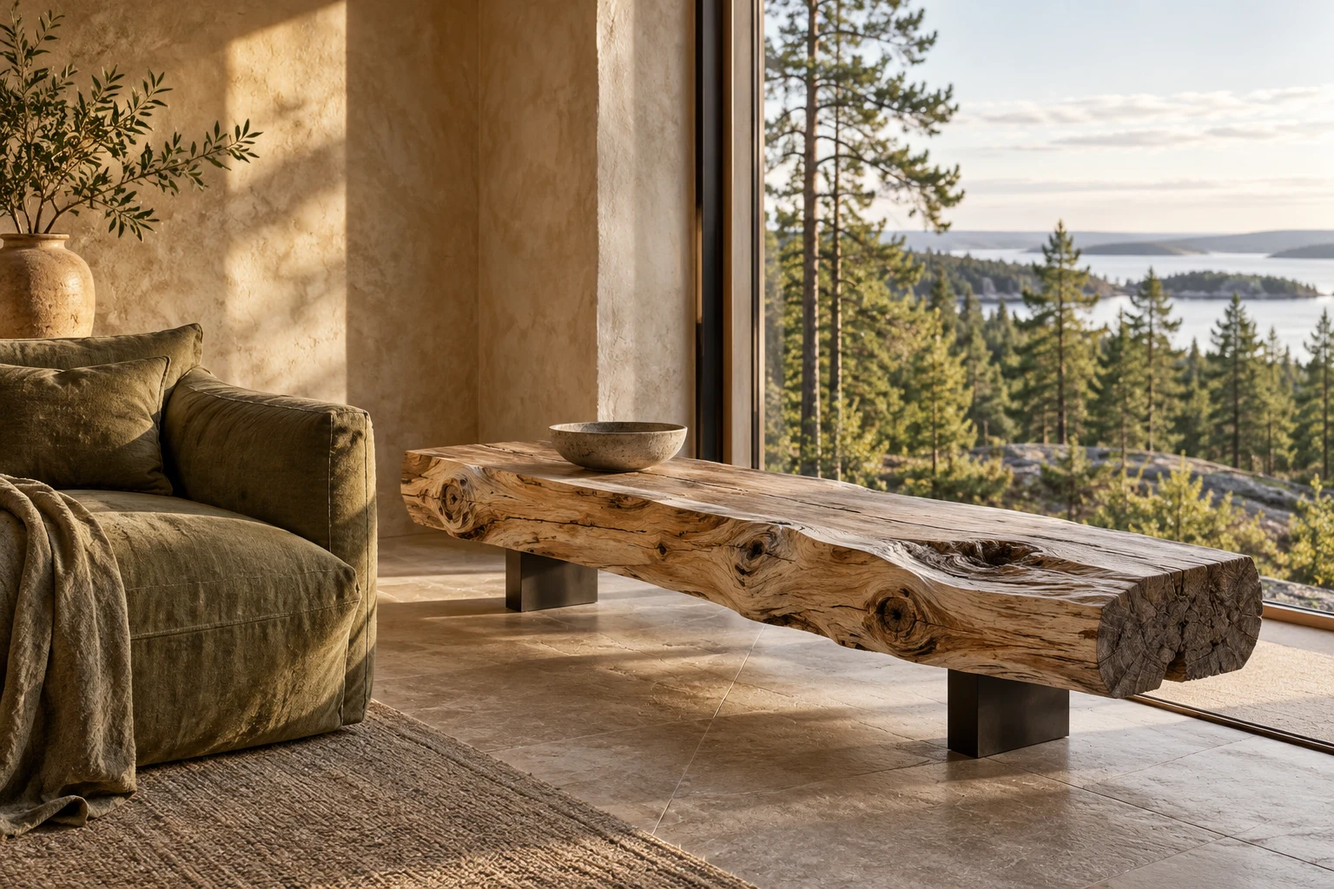
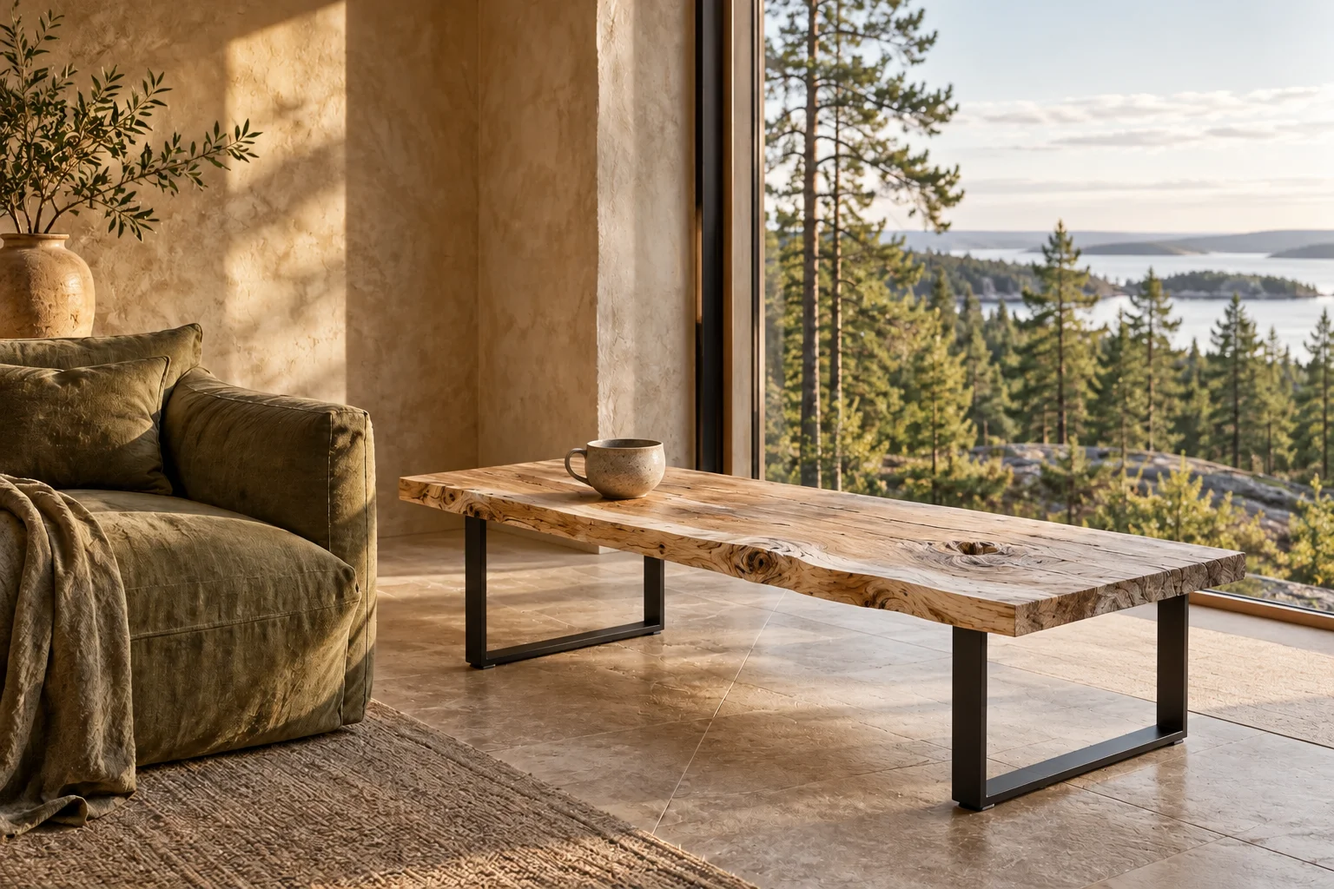
Simplify storefront to one board overview and separate editor; revise coffee-table image

diff --git a/components/storefront.tsx b/components/storefront.tsx
@@ -4,7 +4,7 @@ import {AnimatePresence,motion,useReducedMotion} from 'motion/react';
 import {MotionPhoto} from '@/components/motion-photo';
 import {photoIndex} from '@/lib/gallery-gestures';
 import { ShoppingBag, Search, Menu, X, Plus, Minus, Trash2, Check, TreePine, Ruler, Truck, Leaf, ShieldCheck, SlidersHorizontal, Heart, Package, RotateCcw, CheckCircle2, CreditCard, MapPin, Info, Loader2 } from 'lucide-react';
-import { categoryPhotoSets,photoGroup,productPhotoSet,editorialImages,projectExamples,type GalleryPhoto } from '@/lib/gallery-photos';
+import { productPhotoSet,editorialImages,projectExamples,type GalleryPhoto } from '@/lib/gallery-photos';
 import { createBoardMesh } from '@/lib/board-model';
 import { InteractiveSurface } from '@/components/interactive-surface';
 import { boardLengthLimits, boardWidthLimits, configuredWidth, extrasPrice, isShelf, configurationError, categories, demoProducts, defaultProcessing, initialConfig, priceDetails, money, details, shipping, typeNames, type Product, type Processing, type Configuration, type CartItem } from '@/lib/catalog';
@@ -28,8 +28,8 @@ export function Brand(){return <a className="brand" href="/" aria-label="KELO WO
 export function Header({activePath}:{activePath?:string}={}){
  const {cart}=useStore();const [path,setPath]=useState(activePath||'');
  useEffect(()=>setPath(activePath||window.location.pathname),[activePath]);
- const [menu,setMenu]=useState(false),[search,setSearch]=useState(false);const count=cart.reduce((s,i)=>s+i.quantity,0);
- return <><header className="header"><div className="container header-inner"><Brand/><nav className="desktop-nav" aria-label="Основная навигация"><a href="/catalog" aria-current={path==='/catalog'||path.startsWith('/product/')?'page':undefined}>Каталог</a><a href="/constructor" aria-current={path==='/constructor'?'page':undefined}>Конструктор</a><a href="/#about">О Кело</a><a href="/#delivery">Доставка</a></nav><div className="header-actions"><button className="icon-btn search-btn" onClick={()=>setSearch(true)} aria-label="Поиск по каталогу"><Search size={17}/></button><a className="cart-link" href="/cart" aria-label={`Корзина, ${count} товаров`}><ShoppingBag size={25} strokeWidth={1.8} aria-hidden="true"/>{count>0&&<span className="cart-count" aria-hidden="true">{count}</span>}</a><button className="icon-btn mobile-menu" onClick={()=>setMenu(!menu)} aria-label={menu?'Закрыть меню':'Открыть меню'} aria-expanded={menu}>{menu?<X size={20}/>:<Menu size={20}/>}</button></div></div>{menu&&<nav className="mobile-nav" aria-label="Мобильная навигация">{[['/catalog','Каталог изделий'],['/constructor','Конструктор в размер'],['/#about','О древесине Кело'],['/#delivery','Доставка и оплата']].map(([url,label])=><a href={url} key={url} onClick={()=>setMenu(false)}>{label}</a>)}</nav>}</header><div className="product-nav-wrap"><nav className="product-nav container" aria-label="Навигация по коллекции"><a className="product-nav-name" href="/">Сосна Кело.</a><div className="product-nav-links"><a href="/#highlights">Особенности</a><a href="/#collection">Коллекция</a><a href="/#configure">В ваш размер</a></div><a className="btn small" href="/catalog">Выбрать слэб</a></nav></div>{search&&<Modal title="Найдите своё дерево" onClose={()=>setSearch(false)}><form action="/catalog" className="search-form"><label htmlFor="search">Название или артикул</label><div className="input-action"><input id="search" name="q" autoFocus placeholder="Например: слэб или KL-001"/><button className="btn" type="submit">Найти</button></div><p className="muted">Слэбы, полки, заготовки и природные акценты для дома.</p></form></Modal>}</>;
+ const [menu,setMenu]=useState(false);const count=cart.reduce((s,i)=>s+i.quantity,0);
+ return <><header className="header"><div className="container header-inner"><Brand/><nav className="desktop-nav" aria-label="Основная навигация"><a href="/#board" aria-current={path==='/catalog'?'page':undefined}>Доска Кело</a><a href="/constructor" aria-current={path==='/constructor'?'page':undefined}>Редактор</a><a href="/#about">О Кело</a><a href="/#delivery">Доставка</a></nav><div className="header-actions"><a className="cart-link" href="/cart" aria-label={`Корзина, ${count} товаров`}><ShoppingBag size={25} strokeWidth={1.8} aria-hidden="true"/>{count>0&&<span className="cart-count" aria-hidden="true">{count}</span>}</a><button className="icon-btn mobile-menu" onClick={()=>setMenu(!menu)} aria-label={menu?'Закрыть меню':'Открыть меню'} aria-expanded={menu}>{menu?<X size={20}/>:<Menu size={20}/>}</button></div></div>{menu&&<nav className="mobile-nav" aria-label="Мобильная навигация">{[['/#board','Доска Кело'],['/constructor','Редактор доски'],['/#about','О древесине Кело'],['/#delivery','Доставка и оплата']].map(([url,label])=><a href={url} key={url} onClick={()=>setMenu(false)}>{label}</a>)}</nav>}</header><div className="product-nav-wrap"><nav className="product-nav container" aria-label="Навигация по доске Кело"><a className="product-nav-name" href="/">Сосна Кело.</a><div className="product-nav-links"><a href="/#highlights">Особенности</a><a href="/#board">О доске</a><a href="/constructor">В ваш размер</a></div><a className="btn small" href="/constructor">Заказать</a></nav></div></>;
 }
 export function Modal({title,onClose,children,wide=false}:{title:string;onClose:()=>void;children:ReactNode;wide?:boolean}){
  const dialog=useRef<HTMLDialogElement>(null);const [closing,setClosing]=useState(false);const titleId=useId(),reduced=useReducedMotion();
@@ -56,22 +56,21 @@ function MaterialGallery(){
  return <section className="gallery-highlights section" id="highlights"><div className="container"><div className="gallery-section-heading"><p className="eyebrow">Ближе к природе</p><h2>Характер. В деталях.</h2></div><div className="gallery-frame" aria-live="polite" aria-atomic="true"><AnimatePresence initial={false}><motion.img initial={{opacity:0,x:reduced?0:24}} animate={{opacity:1,x:0}} exit={{opacity:0,x:reduced?0:-24}} transition={{duration:.35}} className="gallery-slide-image" key={selected} src={'/images/'+slides[selected].image+'.webp'} alt={slides[selected].alt} loading="lazy"/></AnimatePresence><motion.div key={selected+'-copy'} initial={{opacity:0,y:reduced?0:12}} animate={{opacity:1,y:0}} transition={{duration:.3,delay:.08}} className="gallery-slide-copy"><h3>{slides[selected].title}</h3><p>{slides[selected].text}</p></motion.div></div><div className="gallery-pagination"><div className="gallery-selector" role="group" aria-label="Детали древесины">{slides.map((s,i)=><button type="button" key={s.label} className={selected===i?'active':''} aria-pressed={selected===i} onClick={()=>setSelected(i)}>{selected===i&&<motion.span className="gallery-tab-indicator" layoutId={tabsId} transition={{type:'spring',stiffness:440,damping:35}}/>}<span>{s.label}</span></button>)}</div><span className="gallery-slide-count" aria-hidden="true">0{selected+1} / 03</span></div><p className="fine-print gallery-image-note">Демонстрационные изображения. Рисунок каждой реальной доски уникален.</p></div></section>;
 }
 export function HomePage(){
- const {products,error,reload}=useStore();const rate=Math.min(...products.filter(p=>p.active&&p.category==='slabs').map(p=>p.rate));
- return <main id="main" className="gallery-home"><section className="gallery-hero"><div className="container"><p className="gallery-product-label">Слэбы Кело.</p><div className="gallery-hero-stage"><img className="gallery-hero-image" src={editorialImages.hero} alt="Слэб карельской сосны Кело: натуральный рисунок, сучки и живой край" fetchPriority="high" width="1536" height="1024"/></div><div className="gallery-hero-copy"><h1>Натуральное дерево<br/><span>с характером.</span></h1><p>Уникальные слэбы карельской сосны Кело.<br/>Природная красота. В вашем размере.</p><div className="gallery-purchase"><span className="gallery-price">От {money(Number.isFinite(rate)?rate:2400)} / пог. м <small>Демо-цена</small></span><a className="btn" href="/catalog">Выбрать слэб</a><a className="gallery-secondary-link" href="/catalog?category=shelves">Готовые изделия</a></div></div></div></section>
+ const {products}=useStore();const rate=Math.min(...products.filter(p=>p.active&&p.category==='slabs').map(p=>p.rate));
+ return <main id="main" className="gallery-home"><section className="gallery-hero"><div className="container"><p className="gallery-product-label">Слэбы Кело.</p><div className="gallery-hero-stage"><img className="gallery-hero-image" src={editorialImages.hero} alt="Слэб карельской сосны Кело: натуральный рисунок, сучки и живой край" fetchPriority="high" width="1536" height="1024"/></div><div className="gallery-hero-copy"><h1>Натуральное дерево<br/><span>с характером.</span></h1><p>Уникальные слэбы карельской сосны Кело.<br/>Природная красота. В вашем размере.</p><div className="gallery-purchase"><span className="gallery-price">От {money(Number.isFinite(rate)?rate:2400)} / пог. м <small>Демо-цена</small></span><a className="btn" href="/constructor">Заказать</a></div></div></div></section>
  <MaterialGallery/>
- <section className="section gallery-collection" id="collection"><div className="container"><SectionTitle eyebrow="Коллекция Кело" title={<>Ни одной одинаковой.<br/>Одна — ваша.</>} href="/catalog" link="Весь каталог"/><DemoNote short/>{error&&<div className="inline-error">{error}<button onClick={()=>void reload()}>Обновить</button></div>}<div className="product-grid">{products.filter(p=>p.active).slice(0,4).map(p=><ProductCard p={p} key={p.id}/>)}</div></div></section>
- <section className="section container gallery-configure" id="configure"><SectionTitle eyebrow="Конструктор изделия" title={<>Ваш замысел.<br/>Точный размер.</>}><p>Доски до 150 см и готовые изделия.<br/>Стоимость пересчитывается сразу.</p></SectionTitle><Configurator compact/></section>
+ <BoardOrderBlock/>
  <section className="section gallery-material" id="about"><div className="container"><div className="gallery-material-heading"><p className="eyebrow">Карельская сухостойная сосна</p><h2>У дерева есть характер.<br/><span>Мы его сохраняем.</span></h2><p>Кело — северная сосна, высохшая естественным образом. Её фактура, сучки и трещины становятся частью вашего интерьера. Мы бережно готовим материал к новой истории.</p></div><div className="gallery-material-grid"><article><img src={editorialImages.materialEdge} alt="Естественный рисунок древесных волокон и сучков" loading="lazy"/><h3>Живой край.</h3><p>Природный силуэт вместо одинаковых линий.</p></article><article><img src={editorialImages.thickness} alt="Заготовки из массива сосны Кело" loading="lazy"/><h3>30 или 40 мм.</h3><p>Две толщины для разных идей и задач.</p></article><article><img src={editorialImages.long} alt="Длинная цельная доска с естественным краем" loading="lazy"/><h3>До 6 метров.</h3><p>Исходные доски на складе. Для заказа выберите длину до 150 см.</p></article></div><div className="gallery-karelia"><img src="/images/forest.webp" alt="Сосновый лес Карелии на скалистом берегу озера — атмосферная иллюстрация" loading="lazy"/><div><p className="eyebrow">Родом с севера</p><h3>Спокойствие леса.<br/>Тепло настоящего дерева.</h3><p>Карелия — наше вдохновение. Натуральная древесина — материал, с которым хочется жить.</p></div></div></div></section>
- <section className="section container gallery-comparison"><div className="gallery-comparison-panel"><SectionTitle eyebrow="Для вашей идеи" title={<>Одно дерево.<br/>Разные возможности.</>}/><div className="gallery-comparison-grid">{[{id:'slabs',name:'Слэбы',image:'quiet-hero',copy:'Начало вашего проекта. Выберите природный рисунок и задайте размеры.',features:['Естественный живой край','Заказ доски от 30 до 150 см','Ширина до 400 мм','Обработка по вашему выбору']},{id:'shelves',name:'Навесные полки',image:'quiet-shelf',copy:'Натуральный акцент, который объединяет пространство и любимые вещи.',features:['Массив карельской сосны','Шлифовка и прямой спил','2 или 3 отверстия по запросу']},{id:'tops',name:'Заготовки',image:'quiet-blanks',copy:'Основа для столешницы, подоконника или вашей собственной работы с деревом.',features:['Толщина 30 или 40 мм','Доска с собственным артикулом','Размер под ваш замысел']}].map(c=><article className="gallery-comparison-card" key={c.id}><PhotoGallery photos={categoryPhotoSets[photoGroup(c.id)]} label={c.name}/><div className="comparison-card-copy"><h3>{c.name}</h3><p>{c.copy}</p><a className="gallery-comparison-link" href={'/catalog?category='+c.id}>Выбрать {c.name.toLowerCase()}</a><ul>{c.features.map(f=><li key={f}>{f}</li>)}</ul></div></article>)}</div><a className="text-link" href="/catalog">Все шесть категорий</a></div></section>
  <section className="section container project-examples" id="ideas"><SectionTitle eyebrow="Идеи для вашего дома" title={<>Что можно создать<br/>из Кело.</>}/><div className="project-examples-grid">{projectExamples.map(project=><article className="project-example" key={project.title}><img src={project.image} alt={project.title+' из натуральной древесины — визуализация'} loading="lazy" width="1536" height="1024"/><div><h3>{project.title}</h3><p>{project.description}</p><a className="project-example-link" href={project.href}>{project.action}</a></div></article>)}</div><p className="fine-print">Примеры для вдохновения. Мы предлагаем древесину и заготовки; опоры и крепёж подбираются отдельно.</p></section>
- <section className="steps-section section container"><SectionTitle eyebrow="От выбора до дома" title="Всё начинается с доски."/><div className="steps-grid">{[['01','Выберите фактуру','Найдите свою доску в коллекции.'],['02','Задайте параметры','Настройте длину и обработку. Цена появится сразу.'],['03','Оформите заказ','Укажите контакты и выберите доставку.'],['04','Создайте своё','Мы подготовим и бережно упакуем изделие.']].map(([num,title,text])=><div className="step" key={num}><span>{num}</span><h3>{title}</h3><p>{text}</p></div>)}</div></section>
+ <section className="steps-section section container"><SectionTitle eyebrow="От выбора до дома" title="Всё начинается с доски."/><div className="steps-grid">{[['01','Познакомьтесь с Кело','Рассмотрите фактуру и живой край доски.'],['02','Задайте параметры','Настройте длину и обработку. Цена появится сразу.'],['03','Оформите заказ','Укажите контакты и выберите доставку.'],['04','Создайте своё','Мы подготовим и бережно упакуем изделие.']].map(([num,title,text])=><div className="step" key={num}><span>{num}</span><h3>{title}</h3><p>{text}</p></div>)}</div></section>
  <section className="delivery-section section" id="delivery"><div className="container delivery-grid"><div><p className="eyebrow">Доставка и оплата</p><h2>Продумано.<br/>До вашего порога.</h2><p className="section-description">Размер и обработка — в конструкторе.<br/>Доставка — с учётом вашего изделия.</p><a className="text-link" href="/constructor">Рассчитать изделие</a></div><div className="faq-list">{[['Доставка по России','Способ и сроки согласуем перед отправкой. Для изделий до 250 см в оформлении показан пример расчёта. Яндекс Доставка пока не подключена.'],['Длинные доски','Для изделий длиннее 250 см доставку рассчитаем индивидуально. До согласования она не включается в итоговую сумму.'],['Оплата заказа','ЮKassa пока не подключена. Оформление и онлайн-оплата работают в демонстрационном режиме: деньги не списываются, данные карты не запрашиваются.'],['Самовывоз','Без стоимости доставки. Адрес склада и сроки подготовки уточняются при согласовании заказа.']].map(([title,text],i)=><details key={title} open={i===0}><summary>{title}<Plus size={19}/></summary><p>{text}</p></details>)}</div></div></section>
- <section className="section container closing-section" id="contacts"><p className="eyebrow">KELO WOOD MARKET</p><h2>Природа создала.<br/>Продолжите вы.</h2><p>Слэбы, полки и заготовки для интерьера с характером.<br/>Выберите материал, с которого начнётся ваша история.</p><a className="btn" href="/catalog">Найти свою доску</a><DemoNote/></section></main>;
+ <section className="section container closing-section" id="contacts"><p className="eyebrow">KELO WOOD MARKET</p><h2>Природа создала.<br/>Продолжите вы.</h2><p>Натуральная доска Кело для интерьера с характером.<br/>Задайте свой размер — и начните новую историю.</p><a className="btn" href="/constructor">Заказать</a><DemoNote/></section></main>;
 }
+export function BoardOrderBlock(){return <section className="section container board-order-section" id="board" aria-labelledby="board-order-title"><article className="board-order-card"><div className="board-order-media"><img src="/images/gallery/slabs-angle.webp" alt="Натуральная доска сосны Кело с живым краем и выразительной текстурой — пример" loading="lazy" width="1536" height="1024"/></div><div className="board-order-copy"><p className="eyebrow">Природа. В вашем размере.</p><h2 id="board-order-title">Доска Кело.</h2><p className="board-order-description">Карельская сухостойная сосна с живым краем, серебристой фактурой и неповторимым рисунком. Сохраним её характер и подготовим под вашу идею.</p><dl className="board-order-specs"><div><dt>Длина</dt><dd>30–150 см</dd></div><div><dt>Ширина</dt><dd>до 400 мм</dd></div><div><dt>Толщина</dt><dd>30 / 40 мм</dd></div></dl><a className="btn board-order-button" href="/constructor">Заказать</a><p className="board-order-helper">Размеры, обработку и количество выберете в редакторе.</p><p className="fine-print board-order-demo">Изображение — пример материала. Стоимость рассчитывается в редакторе.</p></div></article></section>;}
 export function ProductCard({p}:{p:Product}){const {favorites,favorite}=useStore();const available=p.remainingCm>=(p.category==='slabs'?boardLengthLimits.minCm:p.maxLength);return <article className={'product-card '+(!available?'unavailable':'')}><PhotoGallery photos={productPhotoSet(p)} label={p.name} variant="product" href={'/product/'+p.id}><span className="product-badge">{available?<><i/>В наличии · демо</>:'Нет в наличии'}</span><button className={'favorite '+(favorites.includes(p.id)?'selected':'')} type="button" aria-label={(favorites.includes(p.id)?'Убрать из избранного ':'В избранное ')+p.name} aria-pressed={favorites.includes(p.id)} onClick={()=>favorite(p.id)}><Heart size={19}/></button></PhotoGallery><div className="product-info"><div className="product-overline"><span>КАРЕЛЬСКАЯ СОСНА</span><span>{p.id}</span></div><h3><a href={'/product/'+p.id}>{p.name}</a></h3><p className="product-dimensions">До {Math.min(p.maxLength,p.remainingCm)} × {p.width} см <span/> {p.thickness} мм</p><div className="product-bottom"><span>от <b>{money(p.rate)}</b><small> / пог. м</small></span><a className="product-go" href={'/constructor?board='+p.id} aria-label={'Настроить '+p.name}>Заказать</a></div></div></article>;}
-export function Footer(){const [legal,setLegal]=useState(false);return <footer className="footer"><div className="container"><div className="footer-main"><div className="footer-brand"><Brand/><p>У дерева есть характер.<br/>Мы его сохраняем.</p><span>НАТУРАЛЬНО. НЕПОВТОРИМО. КЕЛО.</span></div><div><h3>Коллекция</h3>{categories.slice(0,4).map(c=><a href={'/catalog?category='+c.id} key={c.id}>{c.name}</a>)}</div><div><h3>Покупателям</h3><a href="/constructor">Конструктор в размер</a><a href="/#delivery">Доставка и оплата</a><a href="/#about">О древесине Кело</a><a href="/cart">Корзина</a></div><div className="footer-contact"><h3>Ваша история с Кело</h3><p>Начните с красивой доски.<br/>Остальное создадим вместе.</p><a className="text-link light-link" href="/catalog">Найти свою доску </a><small>kelowoodmarket.ru · Карелия</small></div></div><div className="footer-bottom"><span>© {new Date().getFullYear()} KELO WOOD MARKET</span><button onClick={()=>setLegal(true)}>Обработка данных</button><a href="/admin">Панель управления </a><span>Создано с уважением к природе</span></div></div>{legal&&<Modal title="Обработка данных в демо-версии" onClose={()=>setLegal(false)}><div className="prose"><p>Это закрытая демонстрационная версия магазина. При оформлении сохраняются имя, телефон, электронная почта, адрес, комментарий и состав заказа. Они доступны владельцу сайта в панели управления и используются для проверки работы заказа.</p><p>Данные банковской карты не запрашиваются. ЮKassa и Яндекс Доставка не подключены, данные этим сервисам не передаются.</p><p>Перед запуском продаж владелец должен добавить реквизиты оператора, контакты для запросов об удалении данных, сроки хранения и окончательную политику. Для проверки формы используйте вымышленные контактные данные.</p></div></Modal>}</footer>;}
-export function CatalogPage(){const {products,favorites,loading,error,reload}=useStore();const [category,setCategory]=useState('all'),[query,setQuery]=useState(''),[thickness,setThickness]=useState('all'),[width,setWidth]=useState('all'),[sort,setSort]=useState('featured'),[onlyFav,setOnlyFav]=useState(false),[filters,setFilters]=useState(false);useEffect(()=>{const q=new URLSearchParams(window.location.search);setCategory(q.get('category')||'all');setQuery(q.get('q')||'');},[]);let filtered=products.filter(p=>p.active&&(category==='all'||p.category===category)&&(thickness==='all'||String(p.thickness)===thickness)&&(width==='all'||(width==='small'?p.width<=35:width==='medium'?p.width>35&&p.width<=45:p.width>45))&&(!onlyFav||favorites.includes(p.id))&&(p.name+' '+p.id).toLowerCase().includes(query.toLowerCase()));if(sort==='price-asc')filtered=filtered.toSorted((a,b)=>a.rate-b.rate);if(sort==='price-desc')filtered=filtered.toSorted((a,b)=>b.rate-a.rate);if(sort==='width')filtered=filtered.toSorted((a,b)=>b.width-a.width);const reset=()=>{setCategory('all');setQuery('');setThickness('all');setWidth('all');setOnlyFav(false);};return <main id="main" className="catalog-page container"><Breadcrumb current="Каталог"/><div className="page-title"><p className="eyebrow">КОЛЛЕКЦИЯ KELO WOOD MARKET</p><h1>Найдите своё дерево.</h1><p>Ни одной одинаковой доски. Только ваш рисунок, ваша форма, ваша история.</p></div><DemoNote/><div className="category-tabs" role="group" aria-label="Категории товаров"><button className={category==='all'?'active':''} onClick={()=>setCategory('all')}>Вся коллекция</button>{categories.map(c=><button key={c.id} className={category===c.id?'active':''} onClick={()=>setCategory(c.id)}>{c.name}</button>)}</div><div className="catalog-toolbar"><button className={'btn small filter-button '+(filters?'active':'')} onClick={()=>setFilters(!filters)} aria-expanded={filters}>Фильтры</button><div className="catalog-search"><Search size={18}/><input aria-label="Поиск по названию или артикулу" value={query} onChange={e=>setQuery(e.target.value)} placeholder="Название или артикул"/>{query&&<button className="icon-btn" onClick={()=>setQuery('')} aria-label="Очистить поиск"><X size={15}/></button>}</div><button className={'fav-filter '+(onlyFav?'active':'')} onClick={()=>setOnlyFav(!onlyFav)} aria-pressed={onlyFav}><Heart size={17}/>Избранное {favorites.length>0&&`(${favorites.length})`}</button><label className="sort-label"><span className="sr-only">Сортировка</span><select value={sort} onChange={e=>setSort(e.target.value)}><option value="featured">По умолчанию</option><option value="price-asc">Цена: по возрастанию</option><option value="price-desc">Цена: по убыванию</option><option value="width">Сначала широкие</option></select></label></div>{filters&&<div className="filters-panel"><label>Толщина<select value={thickness} onChange={e=>setThickness(e.target.value)}><option value="all">Любая толщина</option><option value="30">30 мм</option><option value="40">40 мм</option></select></label><label>Ширина<select value={width} onChange={e=>setWidth(e.target.value)}><option value="all">Любая ширина</option><option value="small">До 35 см</option><option value="medium">36–45 см</option><option value="large">От 46 см</option></select></label><button className="text-link" onClick={reset}>Сбросить</button></div>}<div className="catalog-count" role="status" aria-live="polite" aria-atomic="true"><span>{filtered.length} изделий в коллекции</span><span>{loading?'Обновляем наличие…':'Цена указана за погонный метр'}</span></div>{error&&<div className="inline-error">{error}<button onClick={()=>void reload()}>Повторить</button></div>}{filtered.length?<div className="product-grid catalog-products" aria-busy={loading}>{filtered.map(p=><ProductCard p={p} key={p.id}/>)}</div>:<Empty icon={<Search size={38}/>} title="Такая доска пока не нашлась" text="Попробуйте изменить параметры или посмотреть всю коллекцию."><button className="btn" onClick={reset}>Сбросить фильтры </button></Empty>}<div className="catalog-banner"><div><p className="eyebrow">НЕ НУЖНА ВСЯ ДОСКА?</p><h2>Закажите ровно свой размер.</h2><p>Доски от 30 до 150 см и готовые изделия — в двух вкладках.</p></div><a className="btn" href="/constructor">Настроить изделие </a></div></main>;}
-export function Breadcrumb({current}:{current:string}){return <nav className="breadcrumb" aria-label="Хлебные крошки"><a href="/">Главная</a><span aria-hidden="true">/</span>{current!=='Каталог'&&<><a href="/catalog">Каталог</a><span aria-hidden="true">/</span></>}<span>{current}</span></nav>;}
+export function Footer(){const [legal,setLegal]=useState(false);return <footer className="footer"><div className="container"><div className="footer-main"><div className="footer-brand"><Brand/><p>У дерева есть характер.<br/>Мы его сохраняем.</p><span>НАТУРАЛЬНО. НЕПОВТОРИМО. КЕЛО.</span></div><div><h3>О доске</h3><a href="/#board">Доска Кело</a><a href="/#highlights">Фактура и живой край</a><a href="/#about">О материале</a><a href="/#ideas">Идеи для дома</a></div><div><h3>Покупателям</h3><a href="/constructor">Конструктор в размер</a><a href="/#delivery">Доставка и оплата</a><a href="/#about">О древесине Кело</a><a href="/cart">Корзина</a></div><div className="footer-contact"><h3>Ваша история с Кело</h3><p>Начните с красивой доски.<br/>Остальное создадим вместе.</p><a className="text-link light-link" href="/constructor">Заказать доску</a><small>kelowoodmarket.ru · Карелия</small></div></div><div className="footer-bottom"><span>© {new Date().getFullYear()} KELO WOOD MARKET</span><button onClick={()=>setLegal(true)}>Обработка данных</button><a href="/admin">Панель управления </a><span>Создано с уважением к природе</span></div></div>{legal&&<Modal title="Обработка данных в демо-версии" onClose={()=>setLegal(false)}><div className="prose"><p>Это закрытая демонстрационная версия магазина. При оформлении сохраняются имя, телефон, электронная почта, адрес, комментарий и состав заказа. Они доступны владельцу сайта в панели управления и используются для проверки работы заказа.</p><p>Данные банковской карты не запрашиваются. ЮKassa и Яндекс Доставка не подключены, данные этим сервисам не передаются.</p><p>Перед запуском продаж владелец должен добавить реквизиты оператора, контакты для запросов об удалении данных, сроки хранения и окончательную политику. Для проверки формы используйте вымышленные контактные данные.</p></div></Modal>}</footer>;}
+export function CatalogPage(){return <main id="main" className="board-page"><div className="container"><Breadcrumb current="Доска Кело"/><div className="page-title"><p className="eyebrow">KELO WOOD MARKET</p><h1>Одна доска.<br/>Много возможностей.</h1><p>Натуральный материал для вашей идеи. Размеры и обработка — в отдельном редакторе.</p></div></div><BoardOrderBlock/></main>;}
+export function Breadcrumb({current}:{current:string}){return <nav className="breadcrumb" aria-label="Хлебные крошки"><a href="/">Главная</a><span aria-hidden="true">/</span>{!['Каталог','Доска Кело'].includes(current)&&<><a href="/catalog">Доска Кело</a><span aria-hidden="true">/</span></>}<span>{current}</span></nav>;}
 function Empty({icon,title,text,children}:{icon:ReactNode;title:string;text:string;children?:ReactNode}){return <div className="empty-state">{icon}<h2>{title}</h2><p>{text}</p>{children}</div>;}
 export function BoardPreview({p,c}:{p:Product;c:Configuration}){
  const uid=useId().replace(/:/g,'');const mesh=createBoardMesh(p,c),scale=Math.min(620/mesh.length,220/mesh.width),cx=375,cy=190;const map=(v:number[])=>[cx+v[0]*scale,cy+v[1]*scale];const path=(ring:number[][])=>ring.map((v,i)=>{const a=map(v);return (i?'L':'M')+a[0]+','+a[1];}).join(' ')+' Z';const shape=[path(mesh.outline),...mesh.holes.map(path)].join(' ');const left=cx-mesh.length*scale/2,right=cx+mesh.length*scale/2,top=cy-mesh.width*scale/2,bottom=cy+mesh.width*scale/2;

diff --git a/lib/gallery-photos.ts b/lib/gallery-photos.ts
@@ -18,7 +18,7 @@ export function productPhotoSet(p:Product):GalleryPhoto[]{
 }
 export const editorialImages={hero:'/images/gallery/home-hero.webp',grain:'/images/gallery/home-grain.webp',edge:'/images/gallery/home-edge.webp',shelf:'/images/gallery/home-shelf.webp',materialEdge:'/images/gallery/material-edge.webp',thickness:'/images/gallery/material-thickness.webp',long:'/images/gallery/material-long.webp'};
 export const projectExamples=[
- {title:'Журнальный стол',image:'/images/interior.webp',description:'Слэб с живым краем и лаконичное подстолье. Природная фактура становится главным акцентом комнаты.',href:'/catalog?category=tops',action:'Выбрать заготовку'},
- {title:'Консоль для прихожей',image:'/images/gallery/project-console.webp',description:'Неглубокая столешница из массива и тонкие опоры. Место для вещей, которые хочется оставить на виду.',href:'/catalog?category=tops',action:'Подобрать материал'},
- {title:'Подоконник из массива',image:'/images/gallery/project-window.webp',description:'Тёплая деревянная поверхность у окна. Прямой задний спил и живой край со стороны комнаты.',href:'/catalog?category=sills',action:'Для подоконников'},
+ {title:'Журнальный стол',image:'/images/interior.webp',description:'Тонкая столешница из доски Кело толщиной 40 мм на металлическом подстолье. Пример использования доски размером 110 × 40 см.',href:'/constructor',action:'Заказать доску'},
+ {title:'Консоль для прихожей',image:'/images/gallery/project-console.webp',description:'Неглубокая столешница из массива и тонкие опоры. Место для вещей, которые хочется оставить на виду.',href:'/constructor',action:'Заказать доску'},
+ {title:'Подоконник из массива',image:'/images/gallery/project-window.webp',description:'Тёплая деревянная поверхность у окна. Прямой задний спил и живой край со стороны комнаты.',href:'/constructor',action:'Заказать доску'},
 ];

diff --git a/app/board-overview.css b/app/board-overview.css
@@ -1,0 +1,18 @@
+.board-order-section{scroll-margin-top:135px}
+.board-order-card{display:grid;grid-template-columns:1.12fr 1fr;background:#222224;border:1px solid #36363a;border-radius:28px;overflow:hidden;min-width:0}
+.board-order-media{background:var(--color-obsidian);min-width:0;overflow:hidden}
+.board-order-media>img{display:block;width:100%;height:100%;min-height:480px;object-fit:cover;object-position:center}
+.board-order-copy{padding:54px 46px;min-width:0;align-self:center}
+.board-order-copy>.eyebrow{color:var(--color-action);font-size:12px;line-height:1.5}
+.board-order-copy h2{font-size:clamp(36px,4vw,56px);line-height:1.08;letter-spacing:-1px;margin-top:18px;color:var(--color-porcelain)}
+.board-order-description{font-size:17px;line-height:1.55;color:#bfbfc6;margin-top:24px;max-width:470px}
+.board-order-specs{display:grid;grid-template-columns:repeat(3,minmax(0,1fr));gap:16px;margin:30px 0 32px;padding:23px 0;border-top:1px solid #45454a;border-bottom:1px solid #45454a}
+.board-order-specs dt{font-size:12px;line-height:1.5;color:#bfbfc6;margin-bottom:8px}
+.board-order-specs dd{font-size:17px;line-height:1.4;color:var(--color-porcelain);font-weight:500;margin:0}
+.board-order-button{min-width:180px;border-radius:10px;min-height:48px;font-size:16px}
+.board-order-helper{font-size:14px;line-height:1.5;color:#bfbfc6;margin-top:16px;max-width:350px}
+.board-order-demo{font-size:12px;line-height:1.5;color:var(--color-ash);margin-top:24px;max-width:360px}
+.board-page .board-order-section{padding-top:24px}
+@media(max-width:1000px){.board-order-copy{padding:38px 30px}.board-order-description{font-size:16px}.board-order-specs{gap:10px}.board-order-specs dd{font-size:15px}.board-order-media>img{min-height:500px}}
+@media(max-width:760px){.board-order-card{grid-template-columns:1fr}.board-order-media>img{height:auto;min-height:0;aspect-ratio:1.5}.board-order-copy{padding:34px}.board-order-copy h2{font-size:42px}.board-order-specs dd{font-size:18px}.board-order-specs{gap:16px}.board-order-button{width:100%}.board-order-helper{max-width:none}.board-order-demo{max-width:none}}
+@media(max-width:420px){.board-order-copy{padding:28px 24px}.board-order-copy h2{font-size:36px}.board-order-description{font-size:15px}.board-order-specs{gap:8px}.board-order-specs dd{font-size:15px}.board-order-specs dt{font-size:12px}.board-order-helper{font-size:13px}}

diff --git a/lib/site-motion.ts b/lib/site-motion.ts
@@ -2,7 +2,7 @@ import { animate, hover, inView, press, scroll } from 'motion';
 
 export function setupSiteMotion(root:HTMLElement){
  if(window.matchMedia('(prefers-reduced-motion: reduce)').matches)return()=>{};
- const revealTargets='.section-title,.gallery-section-heading,.gallery-hero-copy,.gallery-material-heading,.gallery-karelia>div,.gallery-karelia>img,.gallery-comparison-card,.gallery-material-grid>article,.project-example,.steps-grid>.step,.delivery-grid>div,.closing-section,.page-title,.catalog-banner,.constructor-help,.product-care,.product-detail-grid>div,.product-card,.mobile-nav';
+ const revealTargets='.section-title,.gallery-section-heading,.gallery-hero-copy,.gallery-material-heading,.gallery-karelia>div,.gallery-karelia>img,.gallery-comparison-card,.gallery-material-grid>article,.project-example,.steps-grid>.step,.delivery-grid>div,.closing-section,.page-title,.catalog-banner,.constructor-help,.product-care,.product-detail-grid>div,.product-card,.mobile-nav,.board-order-card>div';
  const actionTargets='button:not(:disabled):not(.photo-open),a.btn,a.kmw-action,a.product-go,a.cart-link,.desktop-nav a,.product-nav-links a,.gallery-comparison-link,.project-example-link';
  const revealed=new WeakSet<Element>(),gestures=new Map<HTMLElement,()=>void>(),entrances=new Map<HTMLElement,()=>void>(),scrollScenes=new Map<HTMLElement,()=>void>(),spinners=new Map<HTMLElement,()=>void>();
  const running=new Map<HTMLElement,ReturnType<typeof animate>>(),touched=new Set<HTMLElement>(),feedbackText=new WeakMap<HTMLElement,string>();

diff --git a/app/layout.tsx b/app/layout.tsx
@@ -4,6 +4,7 @@ import "./kelo-gallery.css";
 import "./board-model.css";
 import "./photo-gallery.css";
 import "./motion-interactions.css";
+import "./board-overview.css";
 import { StoreProvider, Header, Footer } from "@/components/storefront";
 
 export const metadata: Metadata = {

diff --git a/AGENTS.md b/AGENTS.md
@@ -24,7 +24,7 @@ Never upload credentials, environment values, local database contents, customer 
 - Gift wrapping and a shelf-support set cost 300 RUB each per item.
 - Keep demo prices/images clearly labelled; YooKassa and Yandex Delivery are not connected.
 
-- Category cards are gray, with five or six photos per gallery. The round coffee-table photo formerly named slabs-room was removed at the user's request. Editorial sections use separate photos, never repeated category covers.
+- The homepage has one generic board description card with a Заказать link to /constructor. Do not restore category cards, the featured product grid, or the embedded homepage configurator. Public /catalog shows the same generic board overview. Galleries on retained product routes have five or six photos. The round coffee-table photo formerly named slabs-room was removed at the user's request. Editorial sections use separate photos, never repeated category covers.
 - Header navigation uses dark buttons with a small 8–10 px radius. The announcement strip is removed.
 - Thickness selection belongs below the board image with length and quantity.
 - Include a section with examples of furniture and interior uses for Kelo boards.
